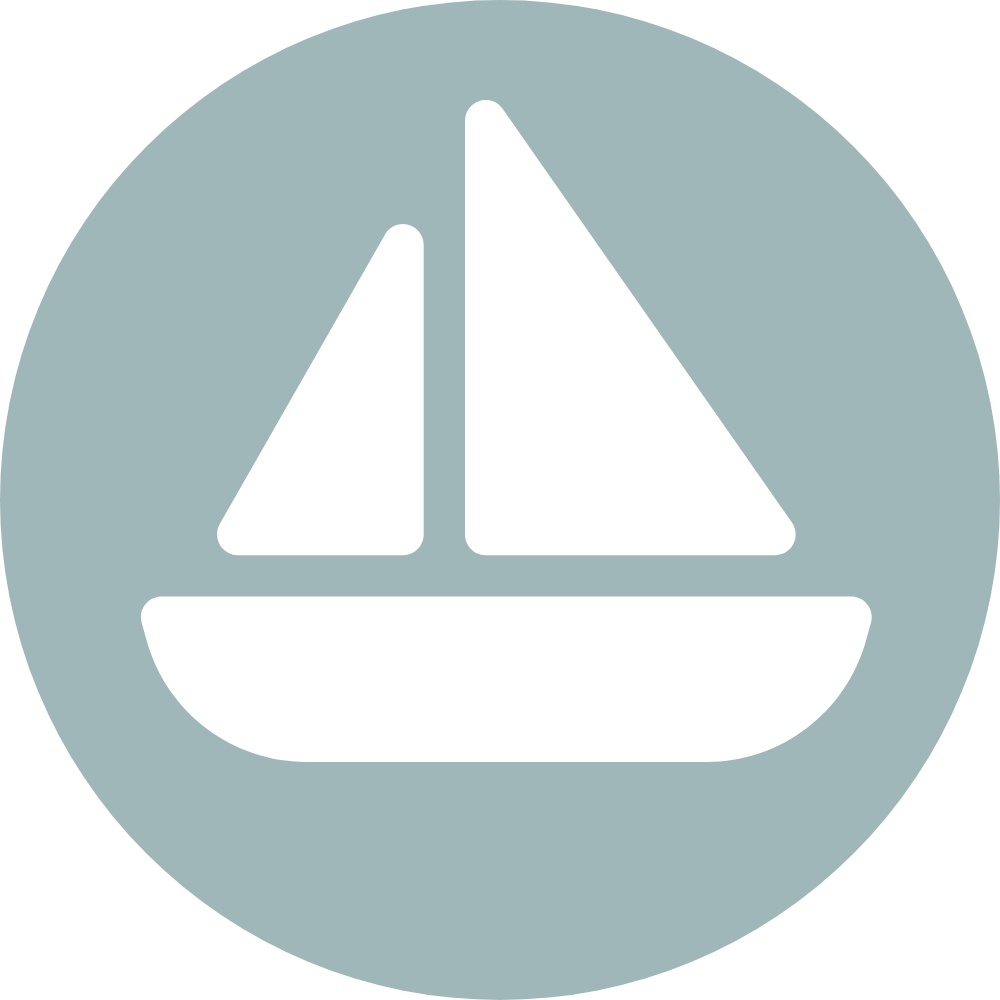
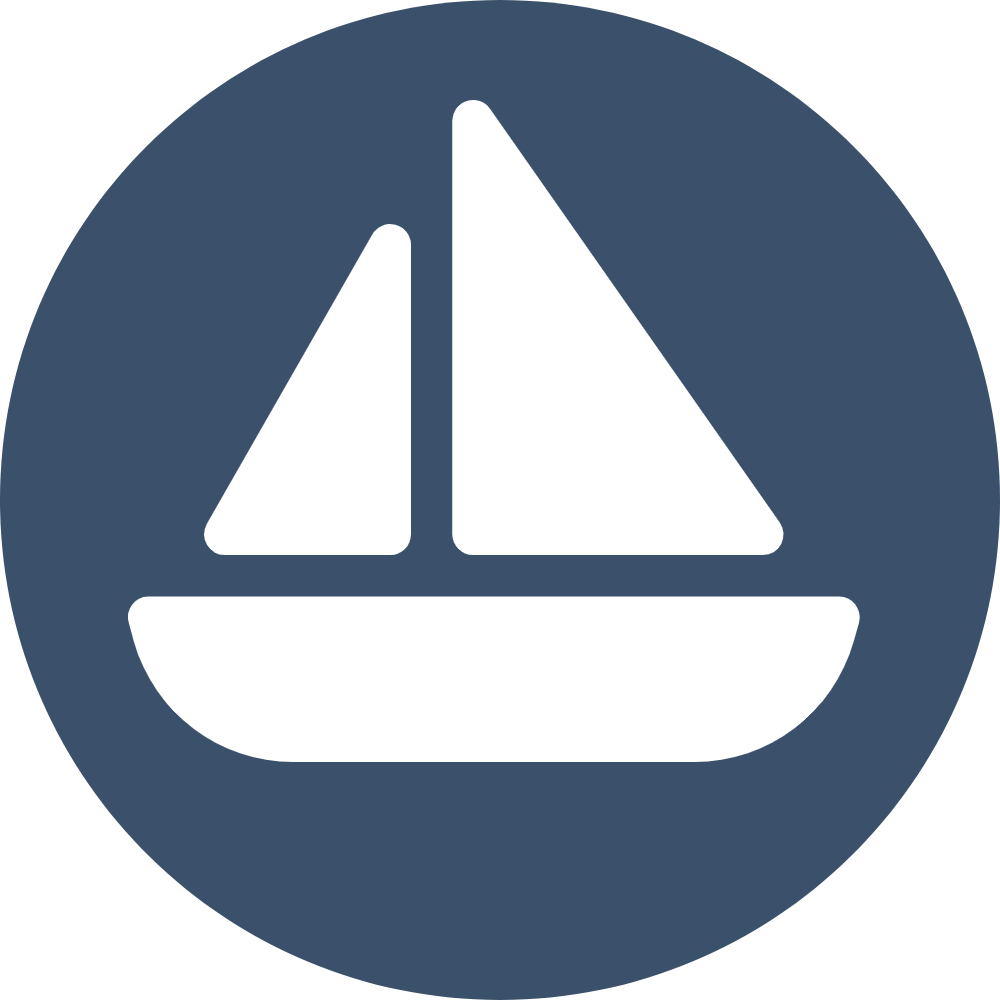
as the name says

diff --git a/app/assets/stylesheets/components/_plus_button.scss b/app/assets/stylesheets/components/_plus_button.scss
@@ -95,6 +95,7 @@
   position: relative;
   display: block;
   border-radius: 50%;
+  border: solid 2px white;
   width: 50px;
   height: 50px;
   margin: 15px auto;
@@ -112,15 +113,15 @@
   font-size: 16px;
 }
 .floating-container .float-element:nth-child(1) {
-  background-color: #5a76844d;
+  background-color: #5A7684;
   box-shadow: 0 20px 20px -10px rgba(90, 118, 132, 0.3);
 }
 .floating-container .float-element:nth-child(2) {
-  background-color: #9FB7B9;
+  background-color: #3A506B;
   box-shadow: 0 20px 20px -10px rgba(159, 183, 185, 1);
 }
 .floating-container .float-element:nth-child(3) {
-  background-color: #5A7684;
+  background-color: #0B132B;
   box-shadow: 0 20px 20px -10px rgba(90, 118, 132, 1);
 }
 

diff --git a/app/assets/stylesheets/components/_accommodation_selector.scss b/app/assets/stylesheets/components/_accommodation_selector.scss
@@ -111,7 +111,7 @@
 
 .form-accommodation {
   padding: 15% 10%;
-  background-color: #5A7684;
+  background-color: #0B132B;
   color: white;
 }
 
@@ -121,7 +121,7 @@
 
 .form-activities {
   padding: 15% 10%;
-  background-color: #5a76844d;
+  background-color: #5A7684;
   color: white;
 }
 

diff --git a/app/assets/stylesheets/components/_transportation_selector.scss b/app/assets/stylesheets/components/_transportation_selector.scss
@@ -89,11 +89,11 @@
 
 .transportation_form{
   padding: 15% 10%;
-  background-color: #9FB7B9;
+  background-color: #3A506B;
   color: white
 }
 
 #transportation_ride{
-  background-color: #9FB7B9;
+  background-color: #3A506B;
   color: white;
 }

diff --git a/app/assets/stylesheets/components/_comp-card.scss b/app/assets/stylesheets/components/_comp-card.scss
@@ -43,11 +43,11 @@
 }
 
 .comp-card-info-tra {
-  background-color: #9FB7B9;
+  background-color: #3A506B;
 }
 
 .comp-card-info-acc {
-  background-color: #5a76844d;
+  background-color: #0B132B;
 }
 
 .spaceholder {

diff --git a/app/assets/stylesheets/components/_footer.scss b/app/assets/stylesheets/components/_footer.scss
@@ -1,6 +1,5 @@
 .footer {
-  background: #5A7684;
-  opacity: 50%;
+  background: #0B132B;
   display: flex;
   align-items: center;
   justify-content: space-between;

diff --git a/app/assets/stylesheets/components/_search.scss b/app/assets/stylesheets/components/_search.scss
@@ -35,6 +35,7 @@
   border-radius: 2.25rem;
   text-align: center;
   width: 250px;
+  font-family: 'Raleway';
 }
 
 .btn-search:hover {

diff --git a/db/seeds.rb b/db/seeds.rb
@@ -35,6 +35,14 @@ norway = { title: "Christmas in Norway", location: "Lofoten Norway", departure: 
 patagonia = { title: "Patagonia adventures", location: "Chile", departure: "10.10.2023", return_day: "01.11.2023", user: fran }
 london = { title: "London calling", location: "London", departure: "13.03.2023", return_day: "20.03.2023", user: james }
 
+california = { title: "California Roadtrip", location: "Yosemite-Nationalpark", departure: "30.05.2023", return_day: "10.06.2023", user: lena }
+cologne = { title: "Kölle for Karneval", location: "Köln", departure: "14.02.2023", return_day: "20.02.2023", user: lena }
+scotland = { title: "Scotland 2022", location: "Edinburgh", departure: "10.11.2022", return_day: "15.11.2022", user: lena }
+sevilla = { title: "Sevilla Birthday Trip", location: "Sevilla", departure: "19.09.2022", return_day: "24.09.2022", user: lena }
+nyc = { title: "New York New York", location: "New York City", departure: "01.08.2022", return_day: "10.08.2022", user: lena }
+baltic = { title: "Northern Germany Roadtrip", location: "Greifswald Mecklenburg-Vorpommern, Deutschland", departure: "23.05.2023", return_day: "02.06.2023", user: lena }
+
+
 images = ["https://images.unsplash.com/photo-1523568129082-a8d6c095638e?ixlib=rb-4.0.3&ixid=MnwxMjA3fDB8MHxwaG90by1wYWdlfHx8fGVufDB8fHx8&auto=format&fit=crop&w=694&q=80", "https://images.unsplash.com/photo-1541264161754-445bbdd7de52?ixlib=rb-4.0.3&ixid=MnwxMjA3fDB8MHxwaG90by1wYWdlfHx8fGVufDB8fHx8&auto=format&fit=crop&w=1470&q=80", "https://images.unsplash.com/photo-1511489731872-324afc650052?ixlib=rb-4.0.3&ixid=MnwxMjA3fDB8MHxwaG90by1wYWdlfHx8fGVufDB8fHx8&auto=format&fit=crop&w=688&q=80", "https://images.unsplash.com/photo-1552560880-2482cef14240?ixlib=rb-4.0.3&ixid=MnwxMjA3fDB8MHxwaG90by1wYWdlfHx8fGVufDB8fHx8&auto=format&fit=crop&w=743&q=80", "https://images.unsplash.com/photo-1507272931001-fc06c17e4f43?ixlib=rb-4.0.3&ixid=MnwxMjA3fDB8MHxwaG90by1wYWdlfHx8fGVufDB8fHx8&auto=format&fit=crop&w=687&q=80", "https://images.unsplash.com/photo-1546569397-ab326af881f5?ixlib=rb-4.0.3&ixid=MnwxMjA3fDB8MHxwaG90by1wYWdlfHx8fGVufDB8fHx8&auto=format&fit=crop&w=678&q=80"]
 
 [greece, paris, canada, copenhagen, norway, patagonia].each_with_index do |attributes, index|
@@ -51,6 +59,14 @@ greece = Trip.first
   # file = URI.open(images[index])
   trip = Trip.new(attributes)
   # trip.photo.attach(io: file, filename: "trip.png", content_type: "image/png")
+  trip.save!
+  puts "Created #{trip.title}"
+end
+
+[california, cologne, scotland, sevilla, nyc, baltic].each_with_index do |attributes, index|
+  file = URI.open(images[index])
+  trip = Trip.new(attributes)
+  trip.photo.attach(io: file, filename: "trip.png", content_type: "image/png")
   trip.save!
   puts "Created #{trip.title}"
 end
